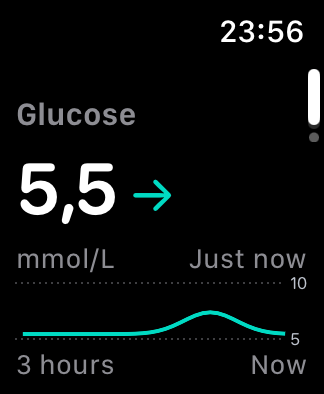
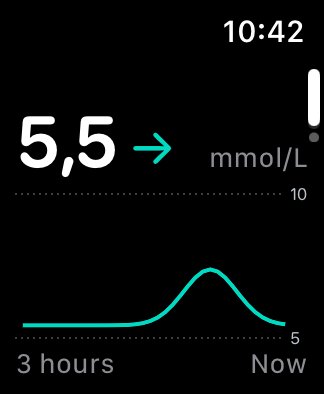
Give the Watch glucose chart more vertical space
Use a compact reading header and a 72/104-point chart without changing glucose scaling or freshness. Preserve large-text legibility and cover both Watch sizes in UI tests. Refresh the README Watch screenshot using the tested synthetic fixture.

diff --git a/xDrip Watch App/Views/MainView/MainView.swift b/xDrip Watch App/Views/MainView/MainView.swift
@@ -4,6 +4,8 @@ import Charts
 /// Wrist-sized observation, not a second configuration surface or sensor controller.
 struct MainView: View {
     @EnvironmentObject private var state: WatchStateModel
+    @Environment(\.dynamicTypeSize) private var typeSize
+    @ScaledMetric(relativeTo: .largeTitle) private var readingScale: CGFloat = 1
     var now: Date
     private var compact: Bool { WKInterfaceDevice.current().screenBounds.width < 185 }
 
@@ -14,11 +16,13 @@ struct MainView: View {
     var body: some View {
         ScrollView {
             VStack(alignment: .leading, spacing: 4) {
-                Text(fresh ? "Glucose" : (state.bgReadingDate() == nil ? "Waiting for iPhone" : "Reading out of date"))
-                    .font(.headline).foregroundStyle(fresh ? Color.secondary : Color.orange)
+                if !fresh {
+                    Text(state.bgReadingDate() == nil ? "Waiting for iPhone" : "Reading out of date")
+                        .font(.headline).foregroundStyle(.orange)
+                }
                 HStack(alignment: .firstTextBaseline, spacing: 5) {
                     Text(fresh ? WatchGlancePolicy.valueText(state.bgValueInMgDl(), isMgDl: state.isMgDl) : "—")
-                        .font(.system(size: compact ? 38 : 44, weight: .semibold, design: .rounded))
+                        .font(.system(size: (compact ? 38 : 44) * readingScale, weight: .semibold, design: .rounded))
                         .monospacedDigit().minimumScaleFactor(0.65).lineLimit(1)
                         .accessibilityIdentifier("watch.glucose")
                     if fresh {
@@ -26,12 +30,16 @@ struct MainView: View {
                             .font(.title2).foregroundStyle(.mint)
                             .accessibilityLabel(WatchGlancePolicy.trendDescription(state.slopeOrdinal))
                     }
-                }.privacySensitive()
-                HStack {
-                    Text(fresh || state.bgReadingDate() == nil ? state.bgUnitString() : "Last \(WatchGlancePolicy.valueText(state.bgValueInMgDl(), isMgDl: state.isMgDl)) \(state.bgUnitString())")
                     Spacer(minLength: 2)
-                    Text(WatchGlancePolicy.ageText(date: state.bgReadingDate(), now: now))
-                }.font(.caption2).foregroundStyle(.secondary)
+                    if !typeSize.isAccessibilitySize { unitLabel }
+                }.privacySensitive()
+                if typeSize.isAccessibilitySize { unitLabel }
+                if !fresh, let date = state.bgReadingDate() {
+                    VStack(alignment: .leading, spacing: 2) {
+                        Text("Last \(WatchGlancePolicy.valueText(state.bgValueInMgDl(), isMgDl: state.isMgDl)) \(state.bgUnitString())")
+                        Text(WatchGlancePolicy.ageText(date: date, now: now))
+                    }.font(.caption2).foregroundStyle(.secondary).privacySensitive()
+                }
                 if state.bgReadingDates.isEmpty {
                     Image(systemName: "iphone.radiowaves.left.and.right")
                         .font(.largeTitle).foregroundStyle(.mint).frame(maxWidth: .infinity).padding(.vertical, 12)
@@ -40,12 +48,22 @@ struct MainView: View {
                 } else {
                     WatchHistoryChart(values: state.bgReadingValues, dates: state.bgReadingDates,
                         sensorIDs: state.bgReadingSensorIDs, isMgDl: state.isMgDl, now: now, fresh: fresh)
-                        .frame(height: compact ? 28 : 44).privacySensitive()
-                    HStack { Text("3 hours"); Spacer(); Text("Now") }
+                        .frame(height: compact ? 72 : 104).privacySensitive()
+                        .accessibilityIdentifier("watch.chart")
+                    HStack {
+                        Text("3 hours")
+                        Spacer()
+                        Text("Now").accessibilityIdentifier("watch.chart.end")
+                    }
                         .font(.caption2).foregroundStyle(.secondary)
                 }
             }.padding(.horizontal, 6)
         }.accessibilityIdentifier("watch.now")
+    }
+
+    private var unitLabel: some View {
+        Text(state.bgUnitString()).font(.caption2).foregroundStyle(.secondary)
+            .lineLimit(1).fixedSize()
     }
 }
 

diff --git a/Tests/WatchJourneyAudit/Journeys/WatchJourneys.swift b/Tests/WatchJourneyAudit/Journeys/WatchJourneys.swift
@@ -28,6 +28,25 @@ final class WatchJourneys: XCTestCase {
         app.buttons["watch.refresh"].tap()
     }
 
+    func testChartIsReadableWithoutScrolling() {
+        let app = XCUIApplication(bundleIdentifier: "com.652PWHFDA9.libredebug.watchkitapp")
+        for (name, flags) in [("Chart-mmol", [String]()), ("Chart-mgdl", ["--watch-mgdl"])] {
+            app.launchArguments = ["--watch-demo"] + flags
+            app.launch()
+            let reading = app.staticTexts["watch.glucose"]
+            XCTAssertTrue(reading.waitForExistence(timeout: 10))
+            let chart = app.descendants(matching: .any)["watch.chart"].firstMatch
+            XCTAssertTrue(chart.waitForExistence(timeout: 5))
+            XCTAssertGreaterThanOrEqual(chart.frame.height, 70)
+            XCTAssertGreaterThanOrEqual(chart.frame.minY, reading.frame.maxY)
+            XCTAssertLessThanOrEqual(chart.frame.maxY, app.frame.maxY - 12)
+            XCTAssertTrue(chart.isHittable)
+            XCTAssertTrue(app.staticTexts["watch.chart.end"].isHittable)
+            capture(name, app: app)
+            app.terminate()
+        }
+    }
+
     func testEmptyStaleAndMealStates() {
         let app = XCUIApplication(bundleIdentifier: "com.652PWHFDA9.libredebug.watchkitapp")
         for (name, flags, label) in [
@@ -53,6 +72,12 @@ final class WatchJourneys: XCTestCase {
             app.launchArguments = ["--watch-demo", "--watch-large", page]
             app.launch()
             XCTAssertTrue(app.wait(for: .runningForeground, timeout: 5))
+            if page.isEmpty {
+                let reading = app.staticTexts["watch.glucose"]
+                XCTAssertTrue(reading.waitForExistence(timeout: 5))
+                XCTAssertTrue(reading.isHittable)
+                XCTAssertGreaterThanOrEqual(reading.frame.height, 38)
+            }
             capture("Large-" + page, app: app)
             if page == "--watch-connection" {
                 for _ in 0..<4 {

diff --git a/docs/media/README.md b/docs/media/README.md
@@ -7,8 +7,8 @@ These are actual simulator captures, not design mockups. All meals, glucose and 
 | `today.png` | Chart-first Today | Build 4242, iPhone 15, `testTodayChartIsVisibleWithoutScrolling` |
 | `food-comparison.png` | Repeated whole-meal comparison | Build 4243, iPhone 17 Pro, `testFoodComparisons` |
 | `landscape.png` | Exact-reading chart inspection | Build 4242, iPhone 17 Pro, `testChartInspectionAndLandscapeFocus` |
-| `watch.png` | Watch app glucose, trend and recent chart | Build 4238, Apple Watch SE 3 (40mm), `testNowMealAndConnection` |
+| `watch.png` | Watch app glucose, trend and taller chart | Build 4244, Apple Watch SE 3 (40mm), `testChartIsReadableWithoutScrolling` |
 
-Captured on 19–20 September 2026. The product UI is the real app; examples are not evidence that banana, yogurt or activity will produce these responses in any person. Files are kept at capture resolution and sized by HTML in the README, without retouching the UI. The Watch screenshot shows the app, not a watch-face complication.
+Captured on 20 September 2026. The product UI is the real app; examples are not evidence that banana, yogurt or activity will produce these responses in any person. Files are kept at capture resolution and sized by HTML in the README, without retouching the UI. The Watch screenshot shows the app, not a watch-face complication.
 
 To refresh: build/install on a simulator, run the corresponding [journey tests](../../Tests/JourneyAudit/README.md), export attachments with `xcrun xcresulttool export attachments`, inspect the images, then replace only these assets. Keep units and sample-data context clear. Do not substitute screenshots from a real user's device without specific consent.

diff --git a/docs/WATCH_COMPANION_4238.md b/docs/WATCH_COMPANION_4238.md
@@ -59,3 +59,12 @@ Repeatable suite: `Tests/WatchJourneyAudit/project.yml` and `Journeys/WatchJourn
   Build log: `/private/tmp/libre-watch-4239-device-retry.log`.
 - Successful launch does not establish receipt of current glucose on the Watch;
   live sync, complications, notifications, and Always On still need acceptance checks.
+
+## Chart layout follow-up — build 4244
+
+- The chart is now 72 points tall on compact watches and 104 points on larger watches (previously 28/44).
+- A single reading/arrow/units row replaces the fresh-state heading and update-age row. At accessibility text sizes, units move below the reading so the number stays legible.
+- Explicit missing/stale labels, historical-value age and the seven-minute freshness policy remain. Larger text and stale details can scroll.
+- The three-hour window, y-axis scaling, linear interpolation and missing-data/sensor boundaries are unchanged. This is a layout change, not a change in glucose interpretation or sensor behavior.
+- The layout regression checks both glucose units, a minimum chart height and complete chart visibility without scrolling at standard text size. Large-text tests also check that the reading is not squeezed smaller by the units.
+- Validation: simulator build 4244, 59 unit tests and four UI journeys on each of the 40 mm and 46 mm simulators passed. Standard and accessibility-size screenshots were inspected; large text intentionally scrolls. The README uses the final 40 mm capture with synthetic data. Physical-device installation and acceptance were not performed for this layout-only update.

diff --git a/Tests/WatchJourneyAudit/README.md b/Tests/WatchJourneyAudit/README.md
@@ -8,3 +8,5 @@ xcodebuild test -project Tests/WatchJourneyAudit/LibreWatchJourneyAudit.xcodepro
 ```
 
 Use a unique `-resultBundlePath` to retain screenshots and element trees. Inspect screenshots, not only test assertions. Simulator-only fixtures include fresh, stale, empty, mg/dL, collecting and limited meal responses; large type and dimmed privacy are also covered. No credentials, pairing, meal writes or Health export occur. Never run this suite on a physical Watch.
+
+Run on both 40 mm and 46 mm simulators. `testChartIsReadableWithoutScrolling` checks chart height, value/chart ordering and full chart visibility in both glucose units. Accessibility text may scroll, but the reading must remain legible.
